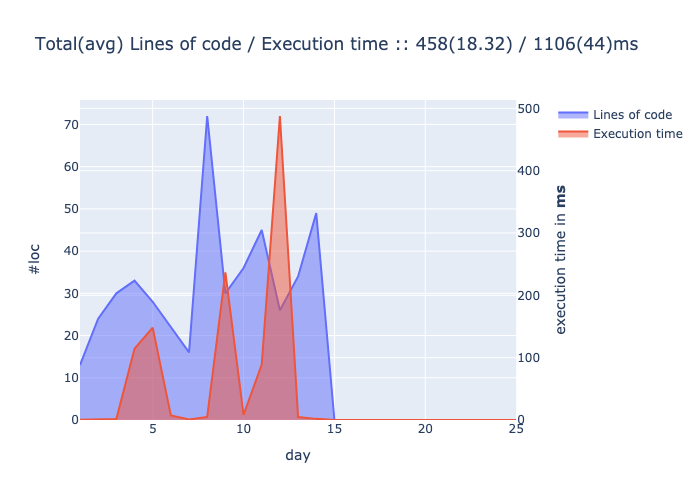
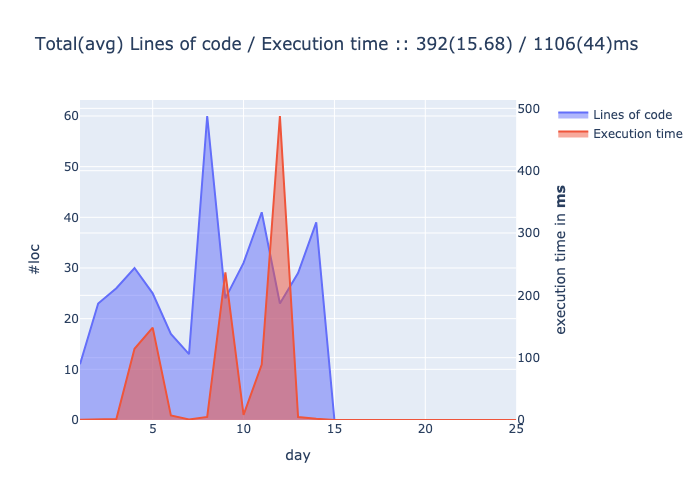
chore: exclude empty lines from stats

diff --git a/aoc/stats.py b/aoc/stats.py
@@ -16,7 +16,8 @@ def loc(day):
     nb = ROOT_DIR / f"day{str(day).rjust(2, '0')}.ipynb"
     if nb.exists():
         cells = load(nb.open())['cells']
-        return sum(len(c['source']) for c in cells if c['cell_type'] == 'code')
+        sources = [c['source'] for c in cells if c['cell_type'] == 'code']
+        return sum(len([line for line in source if line != '\n']) for source in sources)
     return 0
 
 
